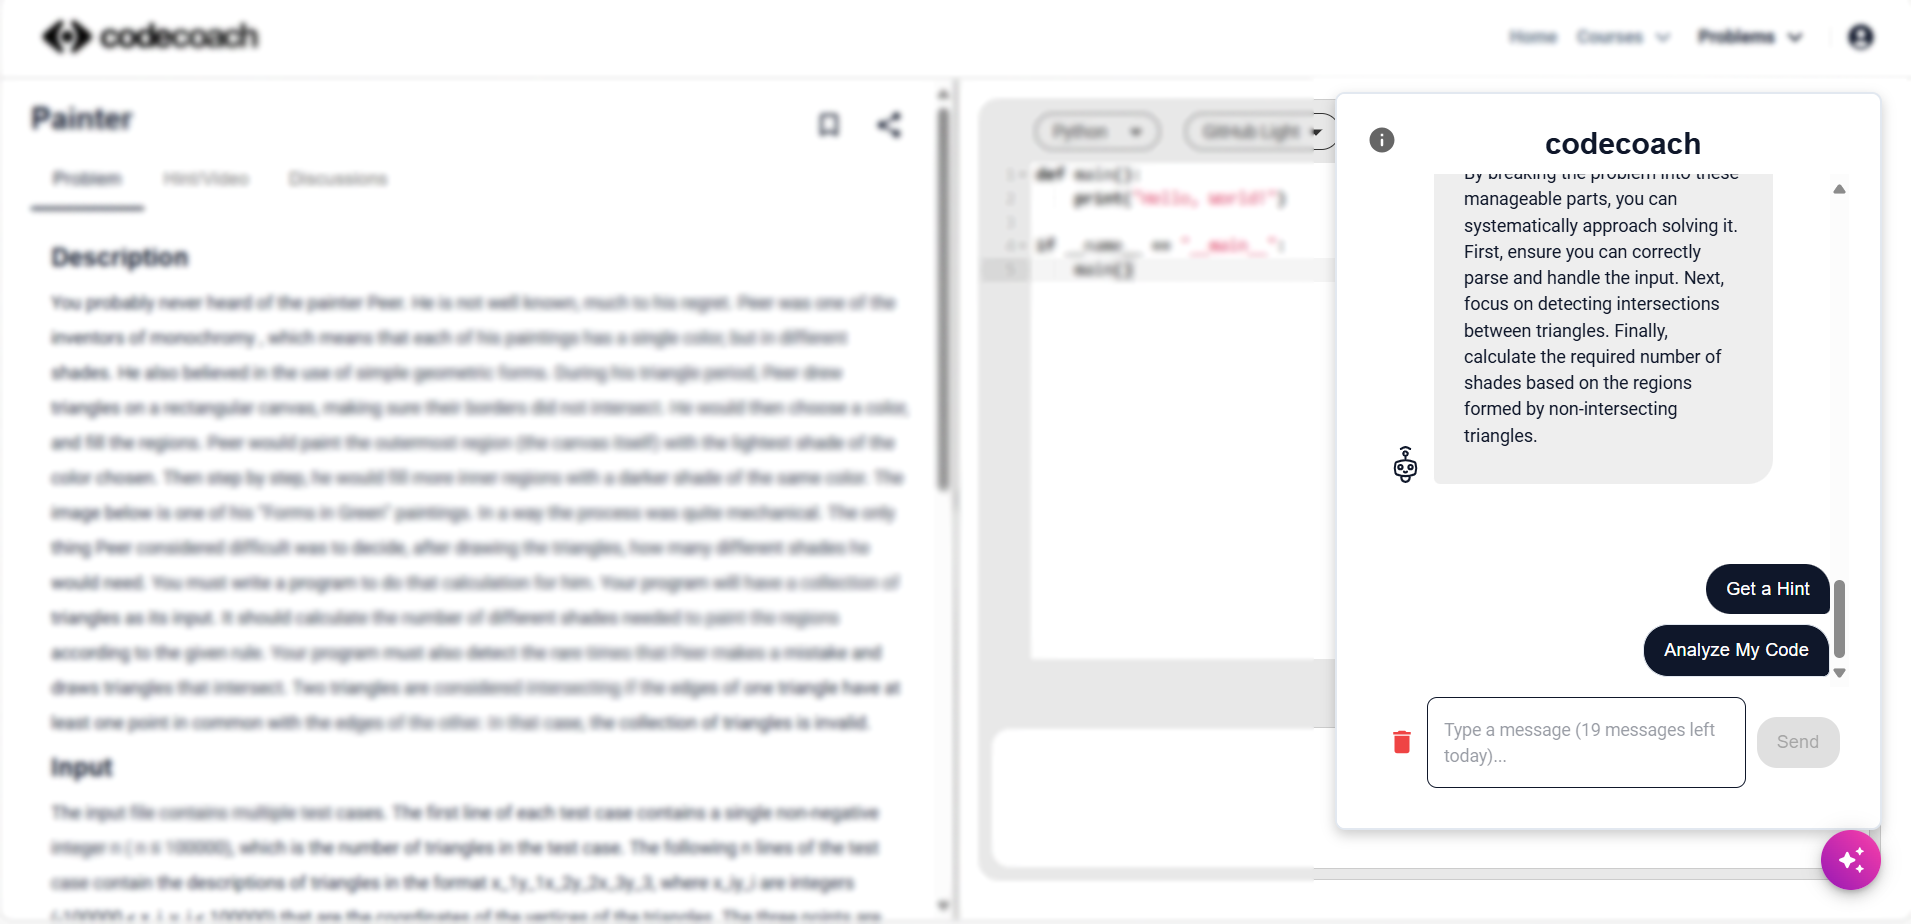
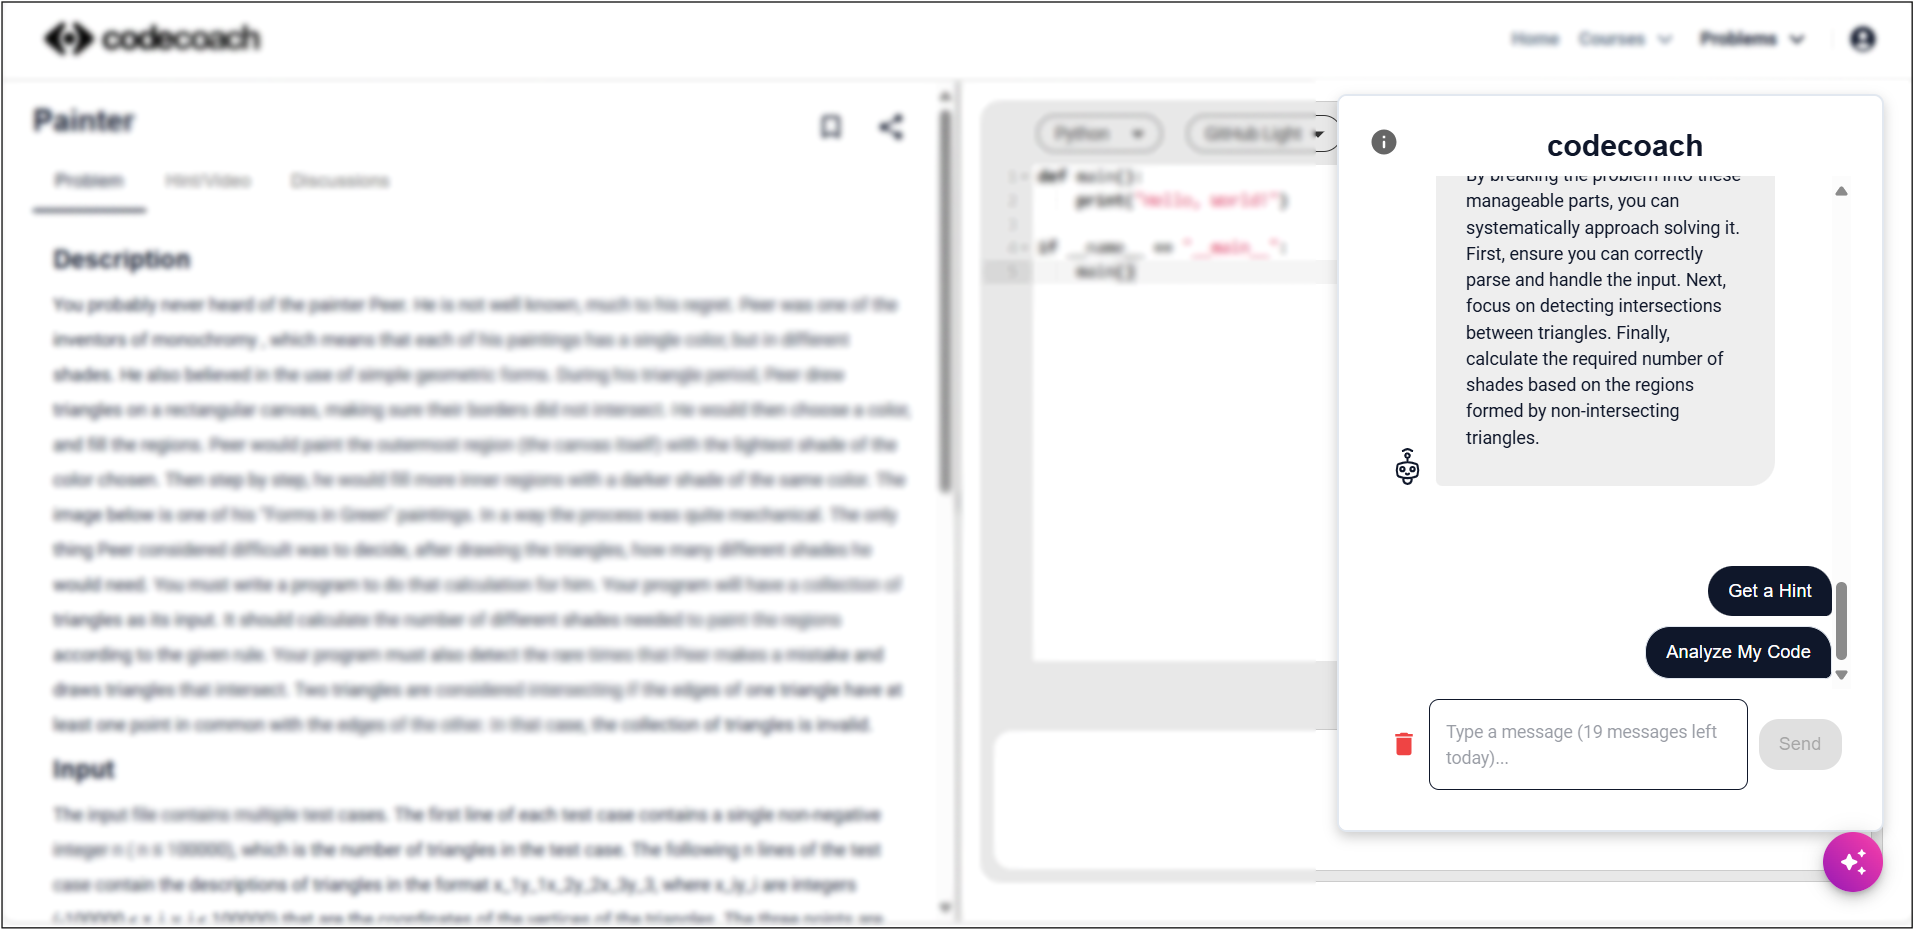
update border

diff --git a/README.md b/README.md
@@ -101,36 +101,34 @@ Our platform is designed to offer a comprehensive and user-friendly experience, 
 
 The landing page of our platform, offering an overview of features, highlighted problems, and navigation options.
 
-|-------|
-| ![Description](assets/home-page1.png) |
-  <!-- <img src="assets\home-page1.png" style="border: 1px solid black; box-shadow: 4px 4px 8px rgba(0, 0, 0, 0.5); "> -->
-  <img src="assets\home-page2.png" style="border: 1px solid black; box-shadow: 4px 4px 8px rgba(0, 0, 0, 0.5); ">
+  <img src="assets\home-page1.png" >
+  <img src="assets\home-page2.png" >
 
 **Problems Page**
 
 #### ICPC Practice Problems
 
 Explore a curated list of **ICPC practice problems** tailored for competitive programming contests. Problems are categorized by difficulty, year, and region to help students prepare effectively for the ICPC competition.
-<img src="assets\problems-page1.png" style="border: 1px solid black; box-shadow: 4px 4px 8px rgba(0, 0, 0, 0.5); ">
+<img src="assets\problems-page1.png" >
 
 #### FAANG Interview Questions
 
 Access a database of **FAANG-style interview questions** designed to help users practice and excel in technical job interviews. Questions can be filtered by category and difficulty to suit individual preparation needs.
 
   
-  <img src="assets\problems-page2.png" style="border: 1px solid black; box-shadow: 4px 4px 8px rgba(0, 0, 0, 0.5); ">
+  <img src="assets\problems-page2.png" >
 
 **Problem Solving Interface**
 
 A dedicated area where users can view problem details and write, test, and submit their code in an integrated editor.
 
-  <img src="assets\prob-solving-page1.png" style="border: 1px solid black; box-shadow: 4px 4px 8px rgba(0, 0, 0, 0.5); ">
+  <img src="assets\prob-solving-page1.png">
 
 **AI Assistant**
 
 - Contextual **hints and suggestions** provided by U-M Maizey AI.
 - Breaks down complex problems into manageable steps.
-<img src="assets\AIAssistant.png" style="border: 1px solid black; box-shadow: 4px 4px 8px rgba(0, 0, 0, 0.5); ">
+<img src="assets\AIAssistant.png" >
 
 **Discussions Tab**
 
